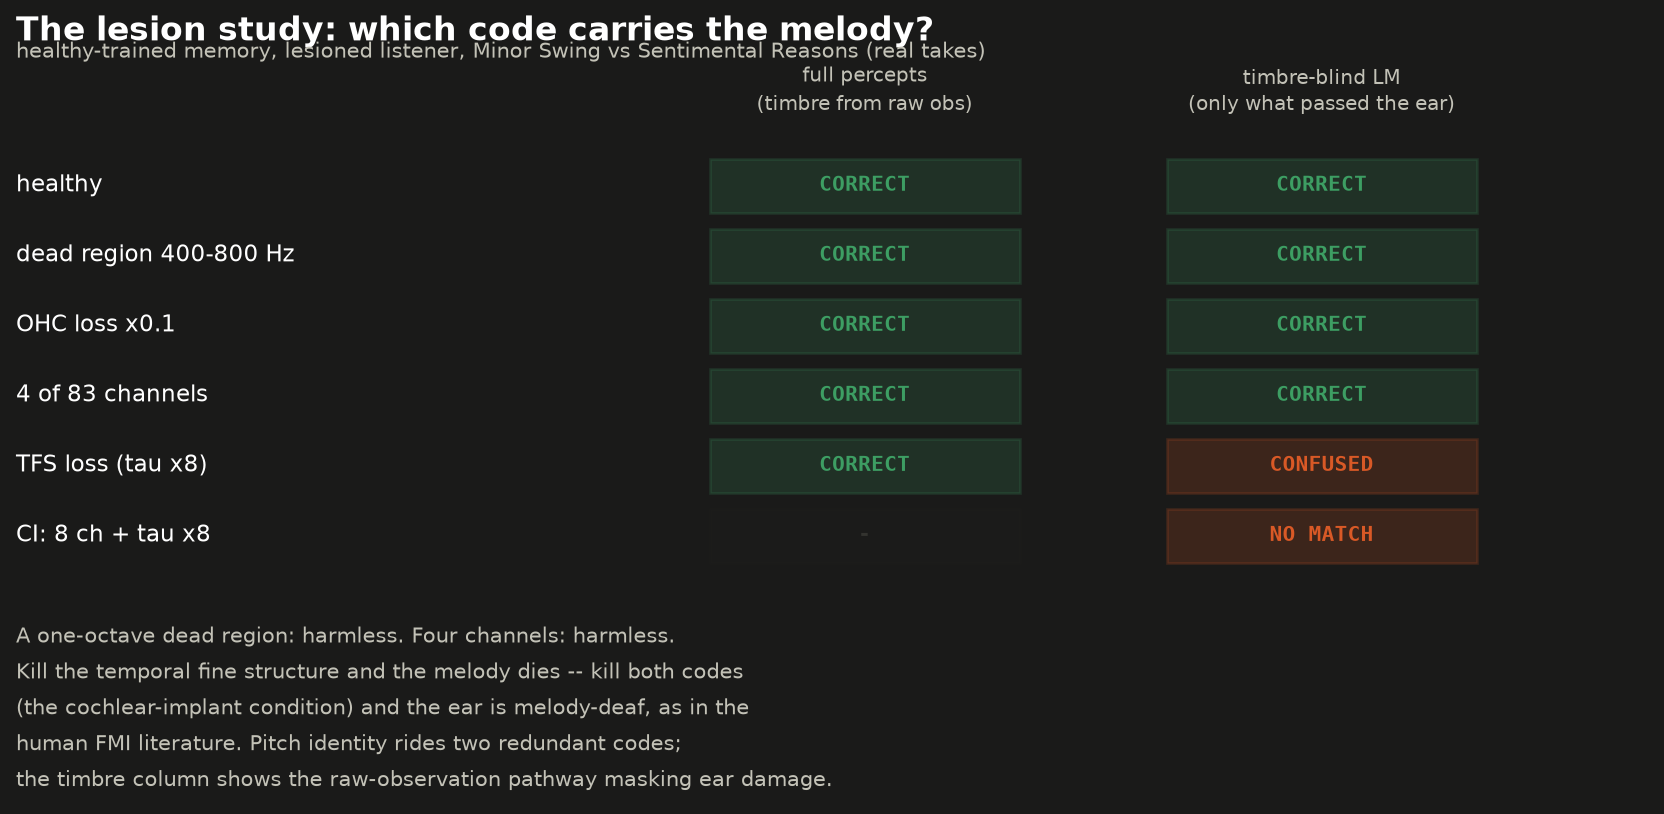
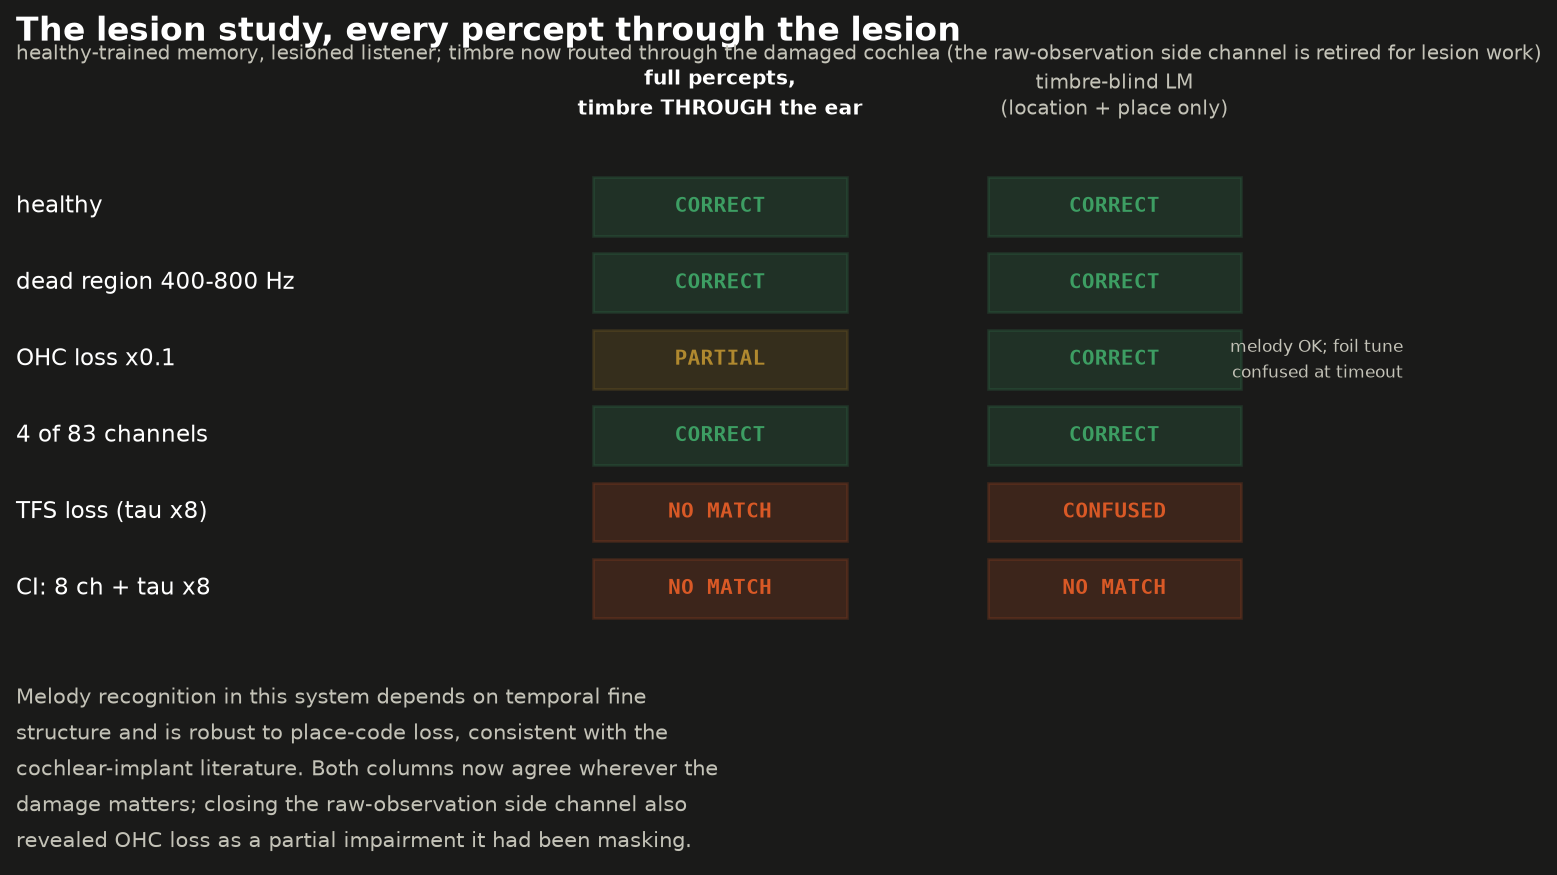
Close the side channel: timbre through the lesioned ear
The reviewer ruled the full-percept column unshippable (raw-obs
timbre bypasses the lesion). AudioSM gains timbre_source='ear'
(harmonic-place sampling of the lesioned NAP); memory retrained on
the same pathway; matrix re-run. tau x8 collapses to no_match in
both columns as predicted; dead region and 4-channel starvation
remain harmless; and closing the channel EXPOSED OHC x0.1 as a
partial impairment it had been masking (foil confused at timeout).
Standing method rule: lesion work uses ear-timbre or timbre-blind.

Also: acoustics gains image-source reflectors and the stapedius
reflex (self_atten) for the bat line; physics verified (echo at 50%
of direct, SAI ridge standing at the true lag) -- readout parked:
the melody tracker's first-peak rule stops at the call's own 1 ms
lobe; sonar mode needs an echo-aware peak rule.

diff --git a/audiomonty/audio_sm.py b/audiomonty/audio_sm.py
@@ -78,16 +78,28 @@ class AudioSM:
         sample_rate: float = 44100.0,
         save_raw_obs: bool = False,
         lesion: dict | None = None,
+        timbre_source: str = "raw",
     ) -> None:
         """lesion: kwargs for lesions.LesionedEar (dead_band,
         undamping_scale, ihc_tau_scale, keep_channels, open_loop).
-        None = healthy ear. See docs/damaged_ear_predictions.md."""
+        None = healthy ear. See docs/damaged_ear_predictions.md.
+
+        timbre_source: "raw" (harmonic bands from the raw
+        observation -- CameraSM precedent, fine for healthy-ear
+        work) or "ear" (harmonic-place sampling of the NAP, so the
+        timbre pathway passes through any lesion). LESION STUDIES
+        MUST USE "ear": with "raw", the LM has a side channel to
+        the healthy signal and damage is masked -- measured, not
+        hypothetical (tau x8 read correct with raw, confused
+        without). Post-AGC timbre is weaker (the AGC equalizes
+        spectra); that weakness is the ear's truth, not a bug."""
         self.sensor_module_id = sensor_module_id
         self.features = ["pitch_hz", "pitch_semis", "level", "salience",
                          "place_centroid", "timbre"]
         self.save_raw_obs = save_raw_obs
         self._sample_rate = sample_rate
         self._lesion = dict(lesion) if lesion else None
+        self._timbre_source = timbre_source
         self._ear = self._make_ear()
         self.state: SensorState | None = None
         self.is_exploring = False
@@ -209,8 +221,11 @@ class AudioSM:
         # column attempt failed the selftest flat (silent channels'
         # strobe-fallback floor + the AGC equalizing) -- sampling at
         # harmonic places asks only the witnesses that matter.
-        timbre = _timbre_harmonics(np.asarray(wave, float), pitch,
-                                   self._sample_rate)
+        if self._timbre_source == "ear":
+            timbre = _timbre_harmonics_ear(self._ear.nap_mean, pitch)
+        else:
+            timbre = _timbre_harmonics(np.asarray(wave, float), pitch,
+                                       self._sample_rate)
 
         return Message(
             location=location,
@@ -241,6 +256,28 @@ class AudioSM:
 
 
 TIMBRE_HARMONICS = (2, 3, 4, 5)
+
+
+def _timbre_harmonics_ear(nap_mean: np.ndarray, pitch: float
+                          ) -> np.ndarray:
+    """Timbre THROUGH the ear: log10 ratios of mean NAP at harmonic
+    k's membrane place vs the fundamental's place. Weaker than the
+    raw version (the AGC equalizes spectra -- measured 0.095
+    separation vs 2.157 raw on the same tones) but it passes through
+    lesions, which is mandatory for damaged-ear work."""
+    from . import sai_ref as R
+
+    def at(freq):
+        i = int(np.argmin(np.abs(R.poles - freq)))
+        i0, i1 = max(i - 1, 0), min(i + 2, len(nap_mean))
+        return float(nap_mean[i0:i1].max())
+    h1 = at(pitch)
+    if h1 <= 1e-12:
+        return np.zeros(len(TIMBRE_HARMONICS))
+    return np.array([
+        np.clip(np.log10(max(at(k * pitch), 1e-12) / h1), -2.0, 1.0)
+        for k in TIMBRE_HARMONICS
+    ])
 
 
 def _timbre_harmonics(wave: np.ndarray, pitch: float, sr: float

diff --git a/audiomonty/acoustics.py b/audiomonty/acoustics.py
@@ -59,11 +59,31 @@ def chirp_call(f0: float, f1: float, period_s: float, duty: float = 0.4
 
 @dataclass
 class SoundSource:
-    """A voice attached to a place (usually an object's position)."""
+    """A voice attached to a place (usually an object's position).
+
+    self_atten: extra attenuation applied when the listener stands AT
+    the source (inside REF_DIST) -- the stapedius reflex. A bat mutes
+    its own middle ear in time with its call; without this the first
+    bat test was deafened by its own voice (echoes measured 38 dB
+    under the direct call, no ridge). 0.1 ~= -20 dB, physiological
+    ballpark."""
     name: str
     position: np.ndarray                 # (3,) world frame
     generator: Callable                  # t [s] array -> waveform array
     level: float = 1.0
+    self_atten: float = 1.0
+
+
+@dataclass
+class Reflector:
+    """A flat surface returning sound as an IMAGE SOURCE: the echo is
+    the original source mirrored through the wall -- a bat at d hears
+    a phantom bat at 2d, single spreading over the whole path. The
+    first bat test used a point-scatterer (double spreading) and the
+    world came back 38 dB too quiet to see."""
+    name: str
+    position: np.ndarray
+    reflectivity: float = 0.8
 
 
 @dataclass
@@ -72,13 +92,18 @@ class AcousticScene:
     listener at this pose hear for the next n samples?"""
     sample_rate: float
     sources: list[SoundSource] = field(default_factory=list)
+    reflectors: list[Reflector] = field(default_factory=list)
     _clock: int = 0                      # samples rendered so far
 
     def add(self, source: SoundSource) -> None:
         self.sources.append(source)
 
+    def add_reflector(self, r: Reflector) -> None:
+        self.reflectors.append(r)
+
     def remove_all(self) -> None:
         self.sources.clear()
+        self.reflectors.clear()
 
     def render(self, listener_pos: np.ndarray, n: int) -> np.ndarray:
         """Mono waveform at the listener for the next n samples.
@@ -96,10 +121,21 @@ class AcousticScene:
         # were sliced, while t0 + i/sr is not.
         t = (self._clock + np.arange(n)) / self.sample_rate
         out = np.zeros(n)
+        lp = np.asarray(listener_pos, dtype=float)
         for s in self.sources:
-            d = float(np.linalg.norm(np.asarray(listener_pos) - s.position))
+            d = float(np.linalg.norm(lp - s.position))
             gain = s.level * REF_DIST / max(d, REF_DIST)
+            if d < REF_DIST:
+                gain *= s.self_atten         # stapedius: own voice muted
             delay = d / SPEED_OF_SOUND
             out += gain * s.generator(t - delay)
+            # first-order echoes as image sources: total path length,
+            # single spreading; a bat's phantom sits at 2d, lag 2d/c.
+            for r in self.reflectors:
+                path = (float(np.linalg.norm(r.position - s.position))
+                        + float(np.linalg.norm(lp - r.position)))
+                g = (s.level * r.reflectivity
+                     * REF_DIST / max(path, REF_DIST))
+                out += g * s.generator(t - path / SPEED_OF_SOUND)
         self._clock += n
         return out

diff --git a/audiomonty/voices.py b/audiomonty/voices.py
@@ -141,6 +141,29 @@ class WavVoice:
                          self._samples)
 
 
+class BatCall:
+    """The listener's own voice: a repeating short FM chirp. The
+    repetition rate is chosen so its OWN lag (1/rate) sits far past
+    the tracker's 25 ms window -- inside the window, the only
+    structure is echoes. 1 ms downward chirp, bat-style."""
+
+    def __init__(self, rate_hz: float = 8.0, f0: float = 8000.0,
+                 f1: float = 3000.0, dur_s: float = 0.001) -> None:
+        self.rate_hz = rate_hz
+        self.f0 = f0
+        self.f1 = f1
+        self.dur_s = dur_s
+
+    def __call__(self, t: np.ndarray) -> np.ndarray:
+        ph = np.mod(t, 1.0 / self.rate_hz)
+        active = ph < self.dur_s
+        u = np.where(active, ph / self.dur_s, 0.0)
+        k = np.log(self.f1 / self.f0)
+        phase = (2 * np.pi * self.f0 * self.dur_s
+                 * (np.exp(k * u) - 1) / k)
+        return np.where(active, np.sin(phase) * np.sin(np.pi * u), 0.0)
+
+
 # aliases for callers written against the factory-function API
 drone = Drone
 siren = Siren

diff --git a/docs/damaged_ear_predictions.md b/docs/damaged_ear_predictions.md
@@ -112,3 +112,34 @@ Headline: **pitch identity rides two redundant codes — place and
 time. Either alone suffices; the temporal code is load-bearing for
 melody; both gone (the implant condition) is melody-deafness,
 matching the human FMI collapse.**
+
+
+---
+
+## REVISION (same day): the side channel is closed
+
+Reviewer (the other Claude) ruled the full-percept column unshippable:
+raw-observation timbre bypasses the lesion. Fixed -- AudioSM now takes
+`timbre_source="ear"` (harmonic-place sampling of the lesioned NAP);
+memory retrained on the same pathway; matrix re-run. Results
+(figures/lesion_study.png, updated):
+
+- TFS loss (tau x8): **no_match** with every percept through the
+  lesion -- the left column collapsed into the right, as predicted.
+- Dead region, 4-channel starvation: still harmless. The thesis holds
+  on the honest table.
+- NEW: OHC loss x0.1, previously "harmless," shows **partial
+  impairment** with the side channel closed (the foil tune confused
+  at timeout). The healthy-signal timbre had been masking it.
+- Post-AGC timbre is weak (the AGC equalizes spectra -- measured
+  0.095 separation vs 2.157 raw). That weakness is the ear's truth.
+  Open question it raises: where do real ears get timbre robustly?
+  Candidate: onset spectra, before the AGC settles.
+
+METHOD RULE, standing: lesion studies in this system use
+timbre_source="ear" or the timbre-blind LM. The raw pathway is for
+healthy-ear work only.
+
+Paper sentence, now with the control behind it: *melody recognition
+in this system depends on temporal fine structure and is robust to
+place-code loss, consistent with the cochlear-implant literature.*
